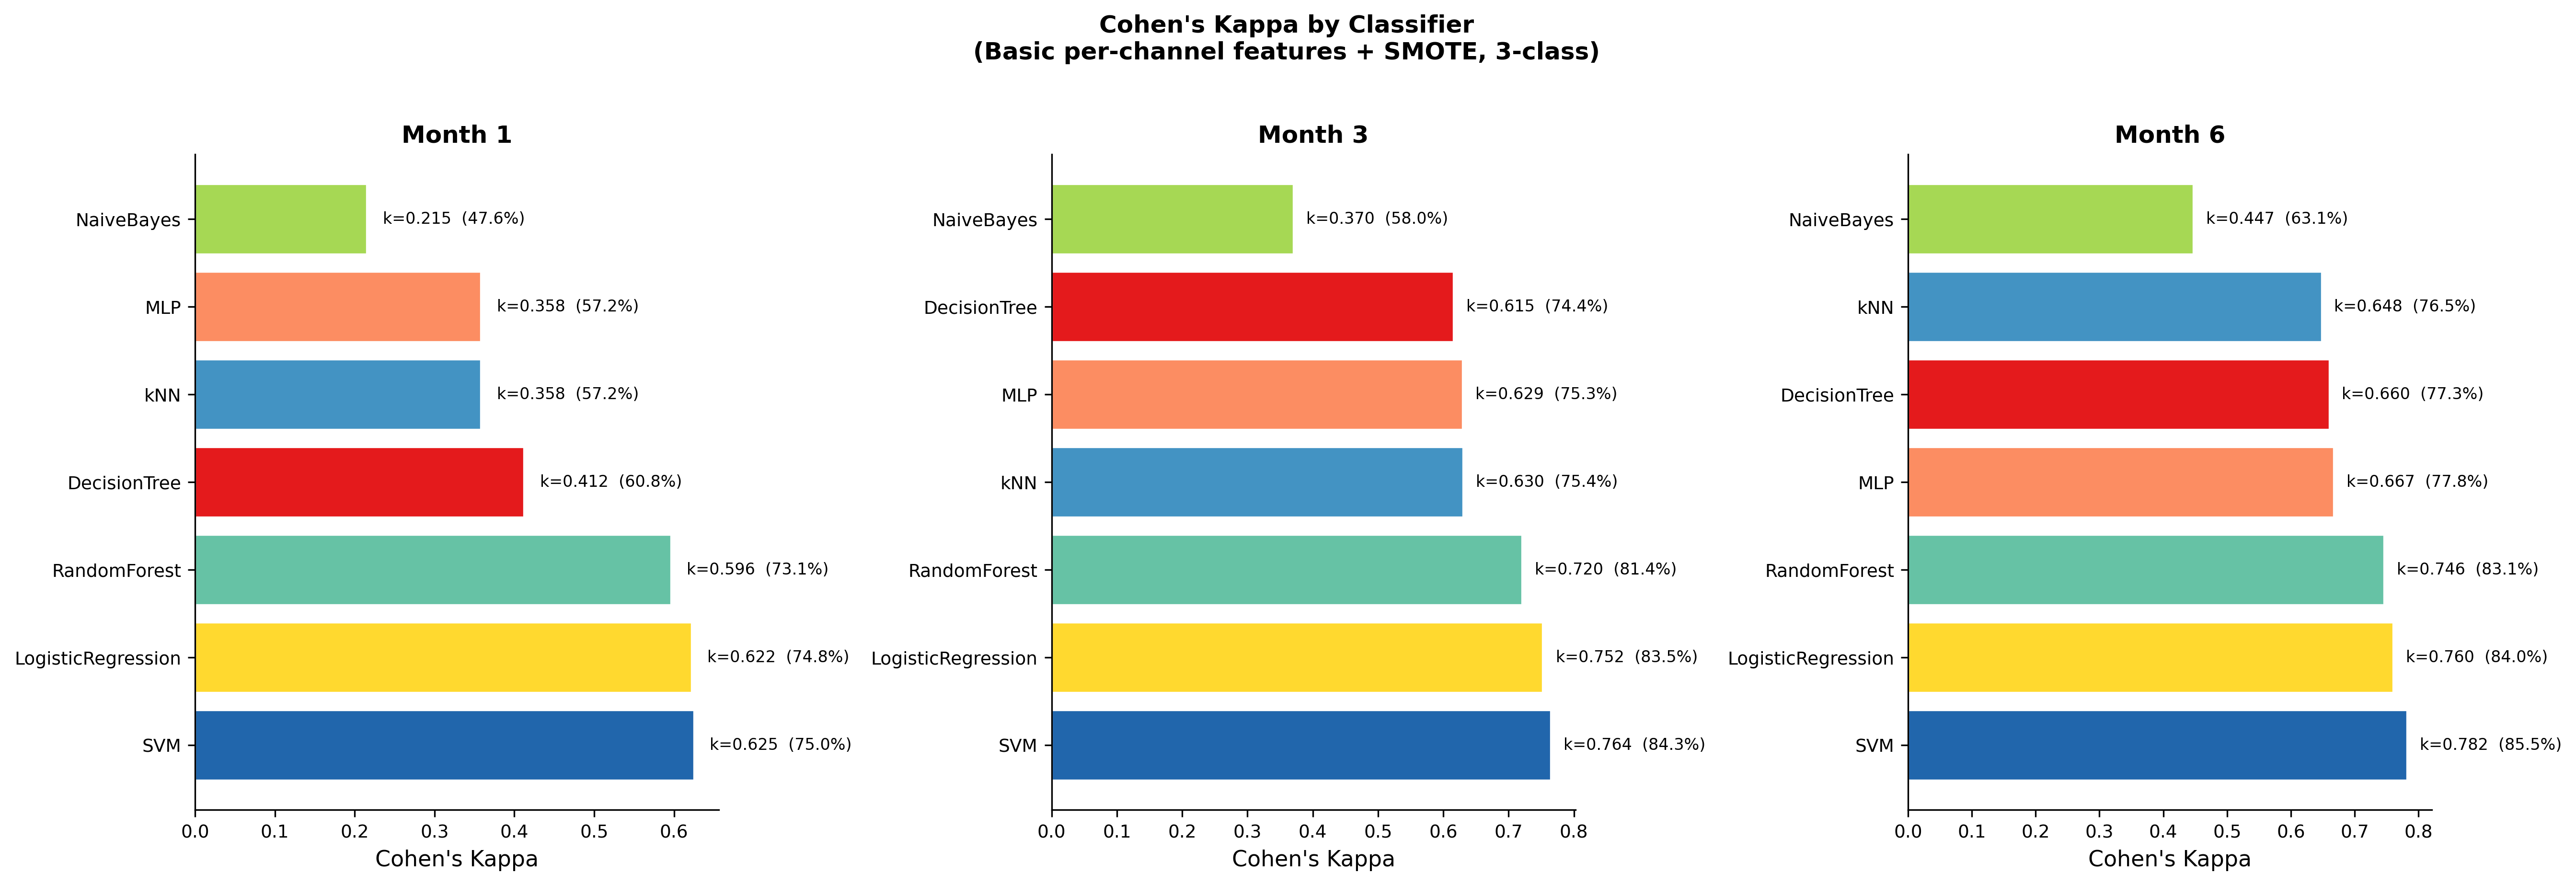
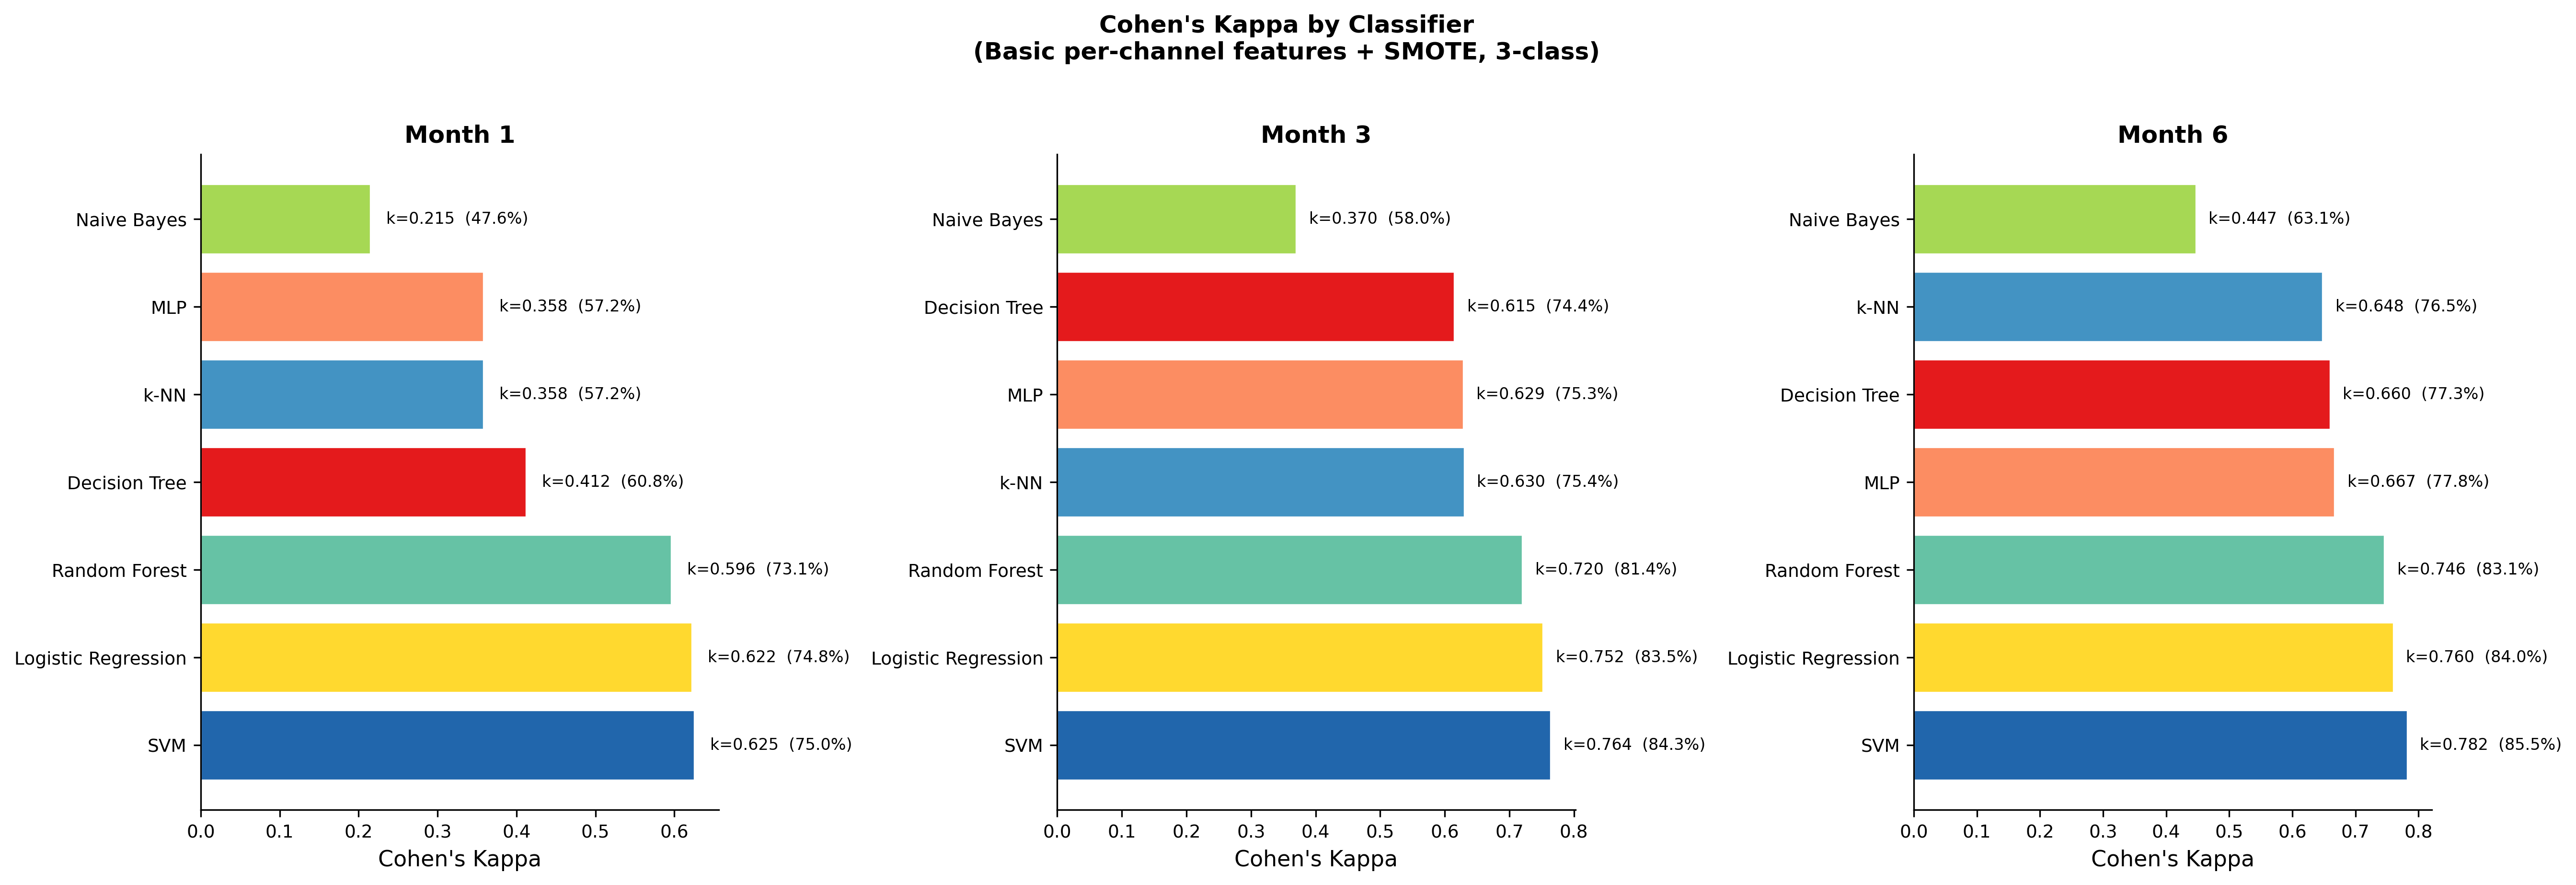
Nombres completos sin abreviaturas en per_channel_comparison y kappa_comparison
Features: Hurst Rescaled Range, Hurst Original, Hurst Semivariogram, etc.
Classifiers: k-NN, Random Forest, Naive Bayes, Logistic Regression, Decision Tree

diff --git a/src/viz/plots_fractal.py b/src/viz/plots_fractal.py
@@ -203,8 +203,16 @@ def plot_per_channel_comparison(output_dir=None):
     df = _load_results()
     sub3 = df[(df["Class_Type"] == "3class") & (df["Group"] == "B")]
     pc_ids = ["B1_HRS_pc", "B2_HO_pc", "B3_HV_pc", "B4_Martinez_pc", "B5_Basic_pc", "B6_All7_pc"]
-    pc_labels = ["HRS\n(partitions)", "HO\n(original)", "HV\n(semivariogram)", "Martinez\n(HO+HRS+HV)", "Basic\n(RS+Hi+DFA+Var)", "All\n(7 methods)"]
+    pc_labels = ["Hurst Rescaled\nRange (p=64)",
+                 "Hurst\nOriginal",
+                 "Hurst\nSemivariogram",
+                 "Martinez Combined\n(HO + HRS + HV)",
+                 "Basic Fractal\n(RS + Higuchi + DFA + Variogram)",
+                 "All 7 Methods\n(RS + Higuchi + DFA +\nVariogram + HO + HRS + HV)"]
     model_order = ["SVM", "kNN", "RandomForest", "NaiveBayes", "LogisticRegression", "MLP", "DecisionTree"]
+    model_display = {"SVM": "SVM", "kNN": "k-NN", "RandomForest": "Random Forest",
+                     "NaiveBayes": "Naive Bayes", "LogisticRegression": "Logistic Regression",
+                     "MLP": "MLP", "DecisionTree": "Decision Tree"}
     model_colors = {"SVM": "#2166AC", "kNN": "#4393C3", "RandomForest": "#66C2A5",
                     "NaiveBayes": "#A6D854", "LogisticRegression": "#FFD92F",
                     "MLP": "#FC8D62", "DecisionTree": "#E41A1C"}
@@ -236,7 +244,7 @@ def plot_per_channel_comparison(output_dir=None):
                     row = ms[(ms["Model"] == mname) & (ms["Feature_Subset"] == sid)]
                     vals.append(row.iloc[0]["Accuracy"] * 100 if len(row) > 0 else 0)
             ax.bar(x + i * width - width * 3.5, vals, width,
-                   label=mname, color=model_colors.get(mname, "#999999"))
+                   label=model_display[mname], color=model_colors.get(mname, "#999999"))
         ax.set_xticks(x)
         ax.set_xticklabels(pc_labels, fontsize=7.5)
         ax.set_ylabel("Accuracy (%)")
@@ -442,6 +450,9 @@ def plot_kappa_comparison(output_dir=None):
     months_disp = ["Month 1", "Month 3", "Month 6"]
     months_key = ["Mes 1", "Mes 3", "Mes 6"]
     model_order = ["SVM", "kNN", "RandomForest", "NaiveBayes", "LogisticRegression", "MLP", "DecisionTree"]
+    model_display = {"SVM": "SVM", "kNN": "k-NN", "RandomForest": "Random Forest",
+                     "NaiveBayes": "Naive Bayes", "LogisticRegression": "Logistic Regression",
+                     "MLP": "MLP", "DecisionTree": "Decision Tree"}
     model_colors = {"SVM": "#2166AC", "kNN": "#4393C3", "RandomForest": "#66C2A5",
                     "NaiveBayes": "#A6D854", "LogisticRegression": "#FFD92F",
                     "MLP": "#FC8D62", "DecisionTree": "#E41A1C"}
@@ -462,11 +473,12 @@ def plot_kappa_comparison(output_dir=None):
         models = [d["model"] for d in data]
         kappas = [d["kappa"] for d in data]
         accs = [d["acc"] for d in data]
+        models_disp = [model_display.get(m, m) for m in models]
         colors_list = [model_colors.get(m, "#999999") for m in models]
         y = np.arange(len(models))
         ax.barh(y, kappas, color=colors_list, edgecolor="white", linewidth=0.8)
         ax.set_yticks(y)
-        ax.set_yticklabels(models, fontsize=9)
+        ax.set_yticklabels(models_disp, fontsize=9)
         ax.set_xlabel("Cohen's Kappa")
         ax.set_title(mdisp, fontweight="bold")
         ax.axvline(x=0, color="black", linewidth=0.5)